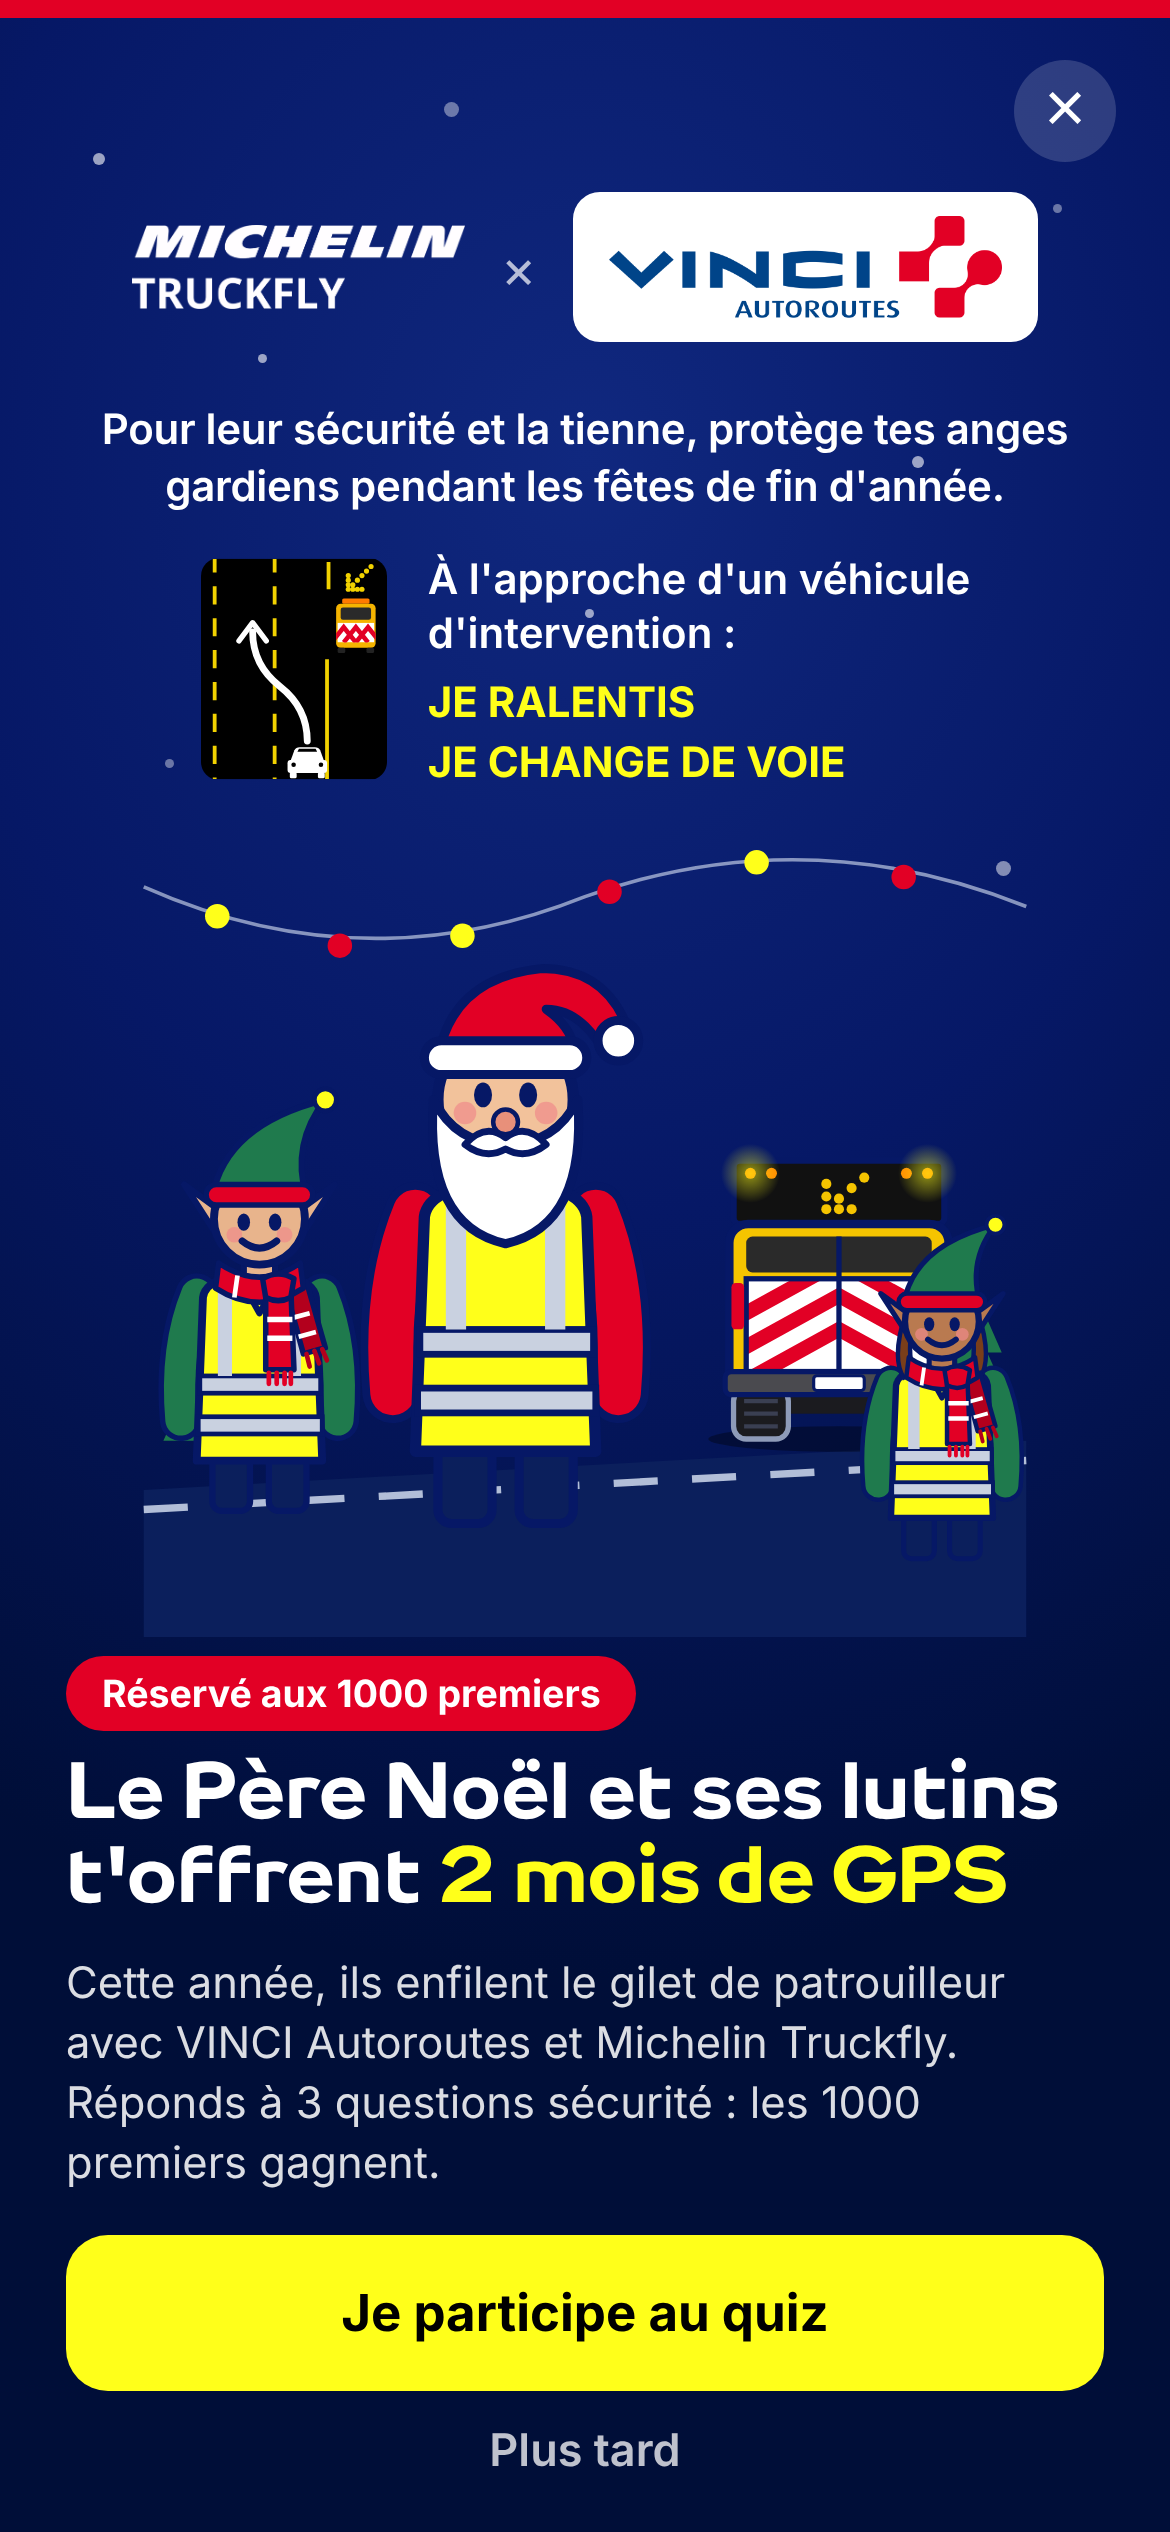
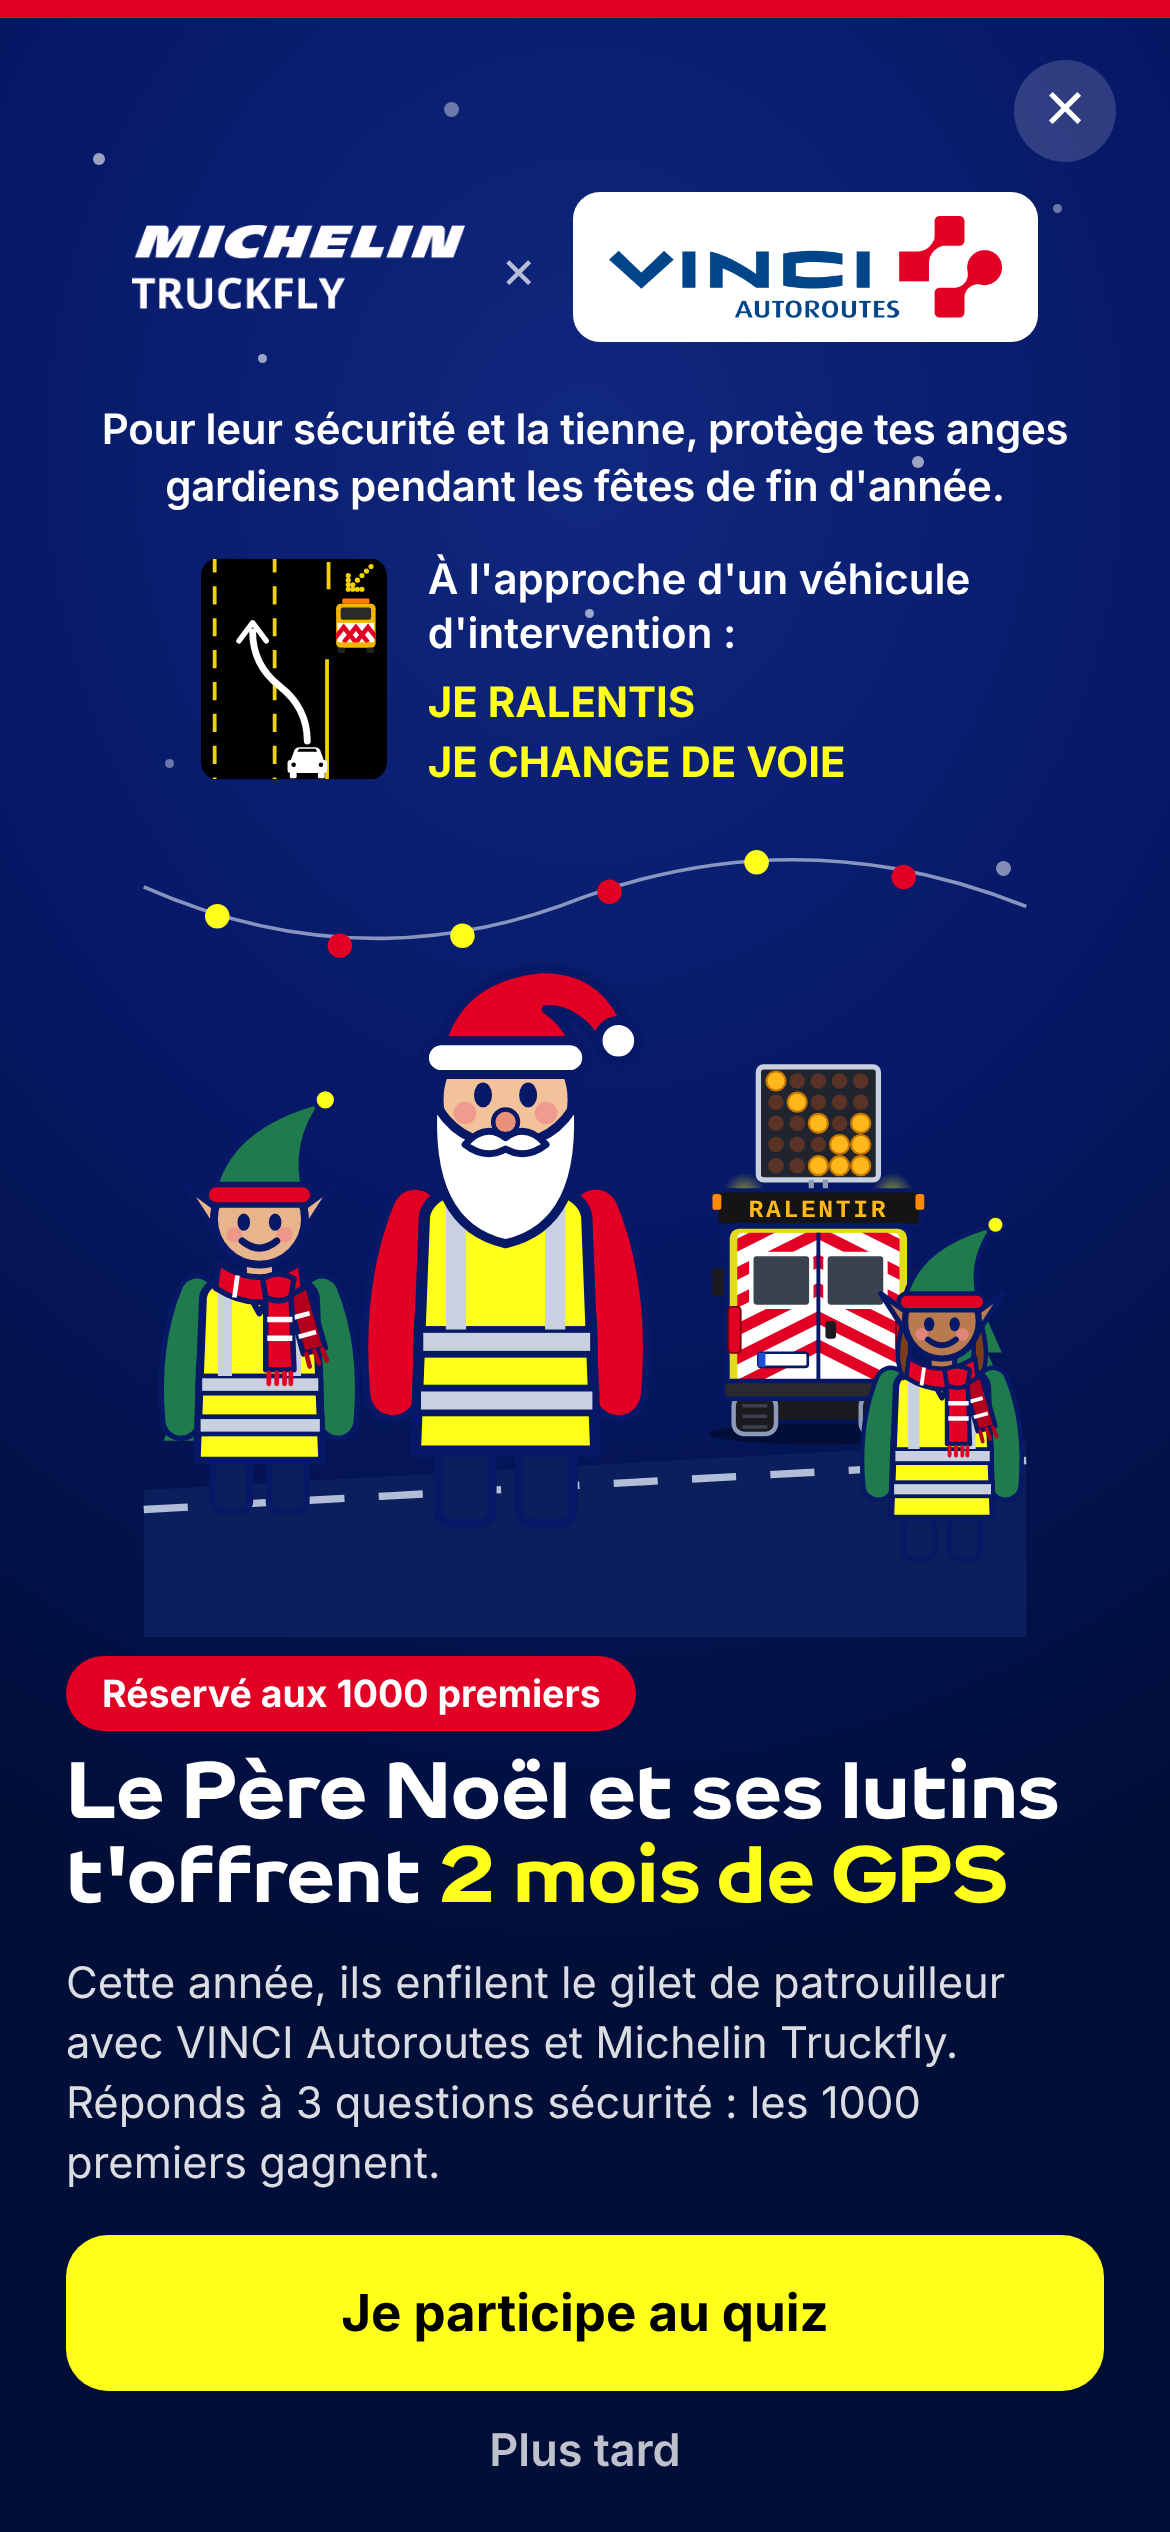
Interstitiel VINCI : fourgon de sécurité réaliste (flèche lumineuse, bandeau RALENTIR, chevrons)
Claude-Session: https://claude.ai/code/session_01Dxf6WJt6yEW2EorFoXnocV

Changed region(s): [[0.6154, 0.4056, 0.8308, 0.5928]]

diff --git a/interstitiels/vinci-fetes/index.html b/interstitiels/vinci-fetes/index.html
@@ -234,33 +234,40 @@ b.fort { color: #000; }
     <g id="ico-pointilles" fill="currentColor"><circle cx="14.1" cy="1.9" r="1.3" /><circle cx="12.2" cy="3.8" r="1.3" /><circle cx="10.2" cy="5.8" r="1.3" /><circle cx="8.3" cy="7.7" r="1.3" /><circle cx="6.4" cy="9.6" r="1.3" /><circle cx="4.5" cy="11.5" r="1.3" /><circle cx="4.5" cy="5.8" r="1.3" /><circle cx="4.5" cy="7.7" r="1.3" /><circle cx="4.5" cy="9.6" r="1.3" /><circle cx="6.4" cy="11.5" r="1.3" /><circle cx="8.3" cy="11.5" r="1.3" /><circle cx="10.2" cy="11.5" r="1.3" /></g>
     <g id="ico-ralentis"><path d="M3 4 L8 9 L13 4 M3 9 L8 14 L13 9" fill="none" stroke="currentColor" stroke-width="2.4" stroke-linecap="round" stroke-linejoin="round" /></g>
     <g id="ico-voie"><path d="M11 15 Q11 8 4 6 M2 9 L4 6 L7 4" fill="none" stroke="currentColor" stroke-width="2.4" stroke-linecap="round" stroke-linejoin="round" /></g>
-    <!-- Fourgon de sécurité VINCI Autoroutes vu de l'arrière : panneau flèche sur le toit, chevrons rouges et blancs -->
+    <!-- Fourgon de sécurité VINCI Autoroutes vu de l'arrière (d'après photo) : flèche lumineuse, bandeau RALENTIR, chevrons -->
     <g id="fourgon">
-      <clipPath id="portes"><rect x="16" y="58" width="88" height="44" /></clipPath>
-      <!-- panneau de signalisation sur le toit -->
-      <rect x="10" y="2" width="100" height="30" rx="3" fill="#111" stroke="#061866" stroke-width="3" />
-      <g fill="#ff8a00"><circle cx="18" cy="8" r="2.6" /><circle cx="28" cy="8" r="2.6" /><circle cx="92" cy="8" r="2.6" /><circle cx="102" cy="8" r="2.6" /></g>
-      <g fill="#f5c400"><circle cx="72" cy="10" r="2.4" /><circle cx="66" cy="15" r="2.4" /><circle cx="60" cy="20" r="2.4" /><circle cx="54" cy="25" r="2.4" />
-        <circle cx="54" cy="19" r="2.4" /><circle cx="54" cy="13" r="2.4" /><circle cx="60" cy="25" r="2.4" /><circle cx="66" cy="25" r="2.4" /></g>
-      <circle cx="18" cy="8" r="14" fill="url(#lueur)" /><circle cx="102" cy="8" r="14" fill="url(#lueur)" />
-      <!-- caisse -->
-      <rect x="8" y="32" width="104" height="80" rx="9" fill="#f5c400" stroke="#061866" stroke-width="4" />
-      <rect x="16" y="38" width="88" height="17" rx="3" fill="#2a2a2a" />
-      <!-- portes arrière couvertes de chevrons -->
-      <g clip-path="url(#portes)"><rect x="16" y="58" width="88" height="44" fill="#fff" />
-        <path d="M2 82 L60 50 L118 82 M2 98 L60 66 L118 98 M2 114 L60 82 L118 114" fill="none" stroke="#e20025" stroke-width="7" /></g>
-      <rect x="16" y="58" width="88" height="44" fill="none" stroke="#061866" stroke-width="2.5" />
-      <path d="M60 38 V102" stroke="#061866" stroke-width="2.5" />
-      <!-- feux arrière -->
-      <rect x="9" y="60" width="6" height="22" rx="2" fill="#e20025" /><rect x="105" y="60" width="6" height="22" rx="2" fill="#e20025" />
-      <!-- pare-chocs et roues -->
-      <ellipse cx="60" cy="134" rx="62" ry="6" fill="#000" opacity=".35" />
-      <rect x="12" y="108" width="96" height="14" fill="#1b1b1f" />
-      <rect x="10" y="110" width="26" height="24" rx="6" fill="#1b1b1f" stroke="#8e9bb8" stroke-width="2.5" />
-      <rect x="84" y="110" width="26" height="24" rx="6" fill="#1b1b1f" stroke="#8e9bb8" stroke-width="2.5" />
-      <path d="M15 116 H31 M15 122 H31 M15 128 H31 M89 116 H105 M89 122 H105 M89 128 H105" stroke="#3a3f52" stroke-width="2" />
-      <rect x="6" y="102" width="108" height="11" rx="3" fill="#4a4a4f" stroke="#061866" stroke-width="2.5" />
-      <rect x="48" y="104" width="24" height="7" rx="1.5" fill="#fff" stroke="#061866" stroke-width="1.5" />
+      <clipPath id="portes"><rect x="14" y="96" width="92" height="84" rx="3" /></clipPath>
+      <!-- flèche lumineuse sur son cadre -->
+      <rect x="26" y="2" width="68" height="64" rx="3" fill="#20242e" stroke="#c9d1e0" stroke-width="3" />
+      <circle cx="36" cy="10" r="5.4" fill="#ffb81c" stroke="#c77700" stroke-width="1.2" /><circle cx="48" cy="10" r="4.4" fill="#5a3326" /><circle cx="60" cy="10" r="4.4" fill="#5a3326" /><circle cx="72" cy="10" r="4.4" fill="#5a3326" /><circle cx="84" cy="10" r="4.4" fill="#5a3326" /><circle cx="36" cy="22" r="4.4" fill="#5a3326" /><circle cx="48" cy="22" r="5.4" fill="#ffb81c" stroke="#c77700" stroke-width="1.2" /><circle cx="60" cy="22" r="4.4" fill="#5a3326" /><circle cx="72" cy="22" r="4.4" fill="#5a3326" /><circle cx="84" cy="22" r="4.4" fill="#5a3326" /><circle cx="36" cy="34" r="4.4" fill="#5a3326" /><circle cx="48" cy="34" r="4.4" fill="#5a3326" /><circle cx="60" cy="34" r="5.4" fill="#ffb81c" stroke="#c77700" stroke-width="1.2" /><circle cx="72" cy="34" r="4.4" fill="#5a3326" /><circle cx="84" cy="34" r="5.4" fill="#ffb81c" stroke="#c77700" stroke-width="1.2" /><circle cx="36" cy="46" r="4.4" fill="#5a3326" /><circle cx="48" cy="46" r="4.4" fill="#5a3326" /><circle cx="60" cy="46" r="4.4" fill="#5a3326" /><circle cx="72" cy="46" r="5.4" fill="#ffb81c" stroke="#c77700" stroke-width="1.2" /><circle cx="84" cy="46" r="5.4" fill="#ffb81c" stroke="#c77700" stroke-width="1.2" /><circle cx="36" cy="58" r="4.4" fill="#5a3326" /><circle cx="48" cy="58" r="4.4" fill="#5a3326" /><circle cx="60" cy="58" r="5.4" fill="#ffb81c" stroke="#c77700" stroke-width="1.2" /><circle cx="72" cy="58" r="5.4" fill="#ffb81c" stroke="#c77700" stroke-width="1.2" /><circle cx="84" cy="58" r="5.4" fill="#ffb81c" stroke="#c77700" stroke-width="1.2" />
+      <circle cx="18" cy="74" r="12" fill="url(#lueur)" /><circle cx="102" cy="74" r="12" fill="url(#lueur)" />
+      <path d="M56 66 V74 M64 66 V74" stroke="#8e9bb8" stroke-width="3" />
+      <!-- bandeau à message -->
+      <rect x="2" y="72" width="116" height="20" rx="2" fill="#141414" stroke="#061866" stroke-width="2.5" />
+      <text x="60" y="87" text-anchor="middle" font-family="Courier New, monospace" font-weight="700" font-size="14" letter-spacing="1.5" fill="#ffb81c">RALENTIR</text>
+      <rect x="0" y="74" width="5" height="9" rx="1.5" fill="#ff8a00" /><rect x="115" y="74" width="5" height="9" rx="1.5" fill="#ff8a00" />
+      <!-- rétroviseurs -->
+      <rect x="0" y="116" width="8" height="16" rx="2" fill="#1b1b1f" /><rect x="112" y="116" width="8" height="16" rx="2" fill="#1b1b1f" />
+      <!-- caisse jaune -->
+      <rect x="8" y="92" width="104" height="96" rx="7" fill="#e3dc1e" stroke="#061866" stroke-width="3.5" />
+      <!-- portes arrière couvertes de chevrons rouges et blancs -->
+      <g clip-path="url(#portes)"><rect x="14" y="96" width="92" height="84" fill="#fff" />
+        <path d="M-4 112 L60 80 L124 112 M-4 128 L60 96 L124 128 M-4 144 L60 112 L124 144 M-4 160 L60 128 L124 160 M-4 176 L60 144 L124 176 M-4 192 L60 160 L124 192" fill="none" stroke="#e20025" stroke-width="6.5" /></g>
+      <!-- vitres arrière -->
+      <rect x="22" y="108" width="34" height="30" rx="3" fill="#3a4250" stroke="#fff" stroke-width="2.5" />
+      <rect x="64" y="108" width="34" height="30" rx="3" fill="#3a4250" stroke="#fff" stroke-width="2.5" />
+      <path d="M60 96 V182" stroke="#061866" stroke-width="2.2" />
+      <!-- feux arrière, plaque et poignée -->
+      <rect x="9" y="138" width="7" height="26" rx="2" fill="#e20025" stroke="#7a0010" stroke-width="1" /><rect x="104" y="138" width="7" height="26" rx="2" fill="#e20025" stroke="#7a0010" stroke-width="1" />
+      <rect x="26" y="164" width="28" height="8" rx="1.5" fill="#fff" stroke="#061866" stroke-width="1.5" /><rect x="26" y="164" width="4" height="8" fill="#1e4fd8" />
+      <rect x="64" y="146" width="6" height="10" rx="2" fill="#1b1b1f" />
+      <!-- pare-chocs, dessous et roues -->
+      <ellipse cx="60" cy="210" rx="62" ry="6" fill="#000" opacity=".35" />
+      <rect x="14" y="190" width="92" height="12" fill="#1b1b1f" />
+      <rect x="12" y="188" width="24" height="22" rx="6" fill="#1b1b1f" stroke="#8e9bb8" stroke-width="2.5" />
+      <rect x="84" y="188" width="24" height="22" rx="6" fill="#1b1b1f" stroke="#8e9bb8" stroke-width="2.5" />
+      <path d="M17 194 H31 M17 200 H31 M17 206 H31 M89 194 H103 M89 200 H103 M89 206 H103" stroke="#3a3f52" stroke-width="2" />
+      <rect x="6" y="180" width="108" height="10" rx="3" fill="#2a2a2e" stroke="#061866" stroke-width="2.5" />
     </g>
     <g id="guirlande">
       <path d="M0 18 Q90 58 180 22 Q270 -10 360 26" fill="none" stroke="#dce6f7" stroke-width="1.5" opacity=".6" />
@@ -296,7 +303,7 @@ b.fort { color: #000; }
       <path d="M0 278 L360 258" stroke="#dce6f7" stroke-width="3" stroke-dasharray="18 14" opacity=".8" />
       <path d="M8 250 L28 206 L48 250 Z M12 226 L28 190 L44 226 Z" fill="#1f7a4d" />
       <path d="M318 236 L336 196 L354 236 Z M322 214 L336 182 L350 214 Z" fill="#1f7a4d" />
-      <use href="#fourgon" transform="translate(258 150) scale(.82)" />
+      <use href="#fourgon" transform="translate(262 108) scale(.7)" />
       <g class="flotte"><use href="#ange-h" transform="translate(14 46) scale(.95)" /></g>
       <g class="flotte" style="animation-delay:-1.6s"><use href="#ange-f" transform="translate(130 56) scale(.9)" /></g>
     </svg>
@@ -448,7 +455,7 @@ b.fort { color: #000; }
       <path d="M0 278 L360 258" stroke="#dce6f7" stroke-width="3" stroke-dasharray="18 14" opacity=".8" />
       <path d="M8 250 L28 206 L48 250 Z M12 226 L28 190 L44 226 Z" fill="#1f7a4d" />
       <path d="M318 236 L336 196 L354 236 Z M322 214 L336 182 L350 214 Z" fill="#1f7a4d" />
-      <use href="#fourgon" transform="translate(232 134) scale(.86)" />
+      <use href="#fourgon" transform="translate(232 96) scale(.72)" />
       <g class="flotte" style="animation-delay:-.8s"><use href="#lutin-g" transform="translate(-4 116) scale(.64)" /></g>
       <g class="flotte" style="animation-delay:-2.2s"><use href="#lutin-f" transform="translate(284 166) scale(.52)" /></g>
       <g class="flotte"><use href="#pere-noel" transform="translate(74 50) scale(.92)" /></g>
